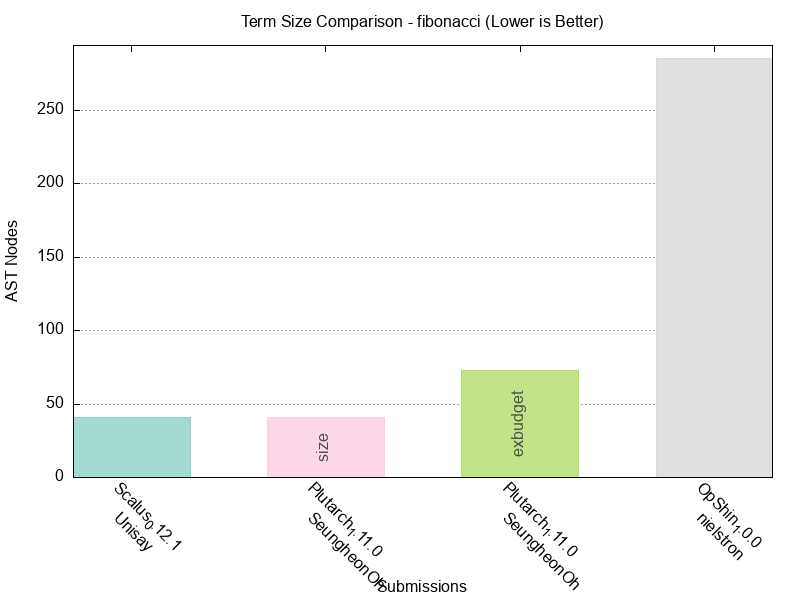
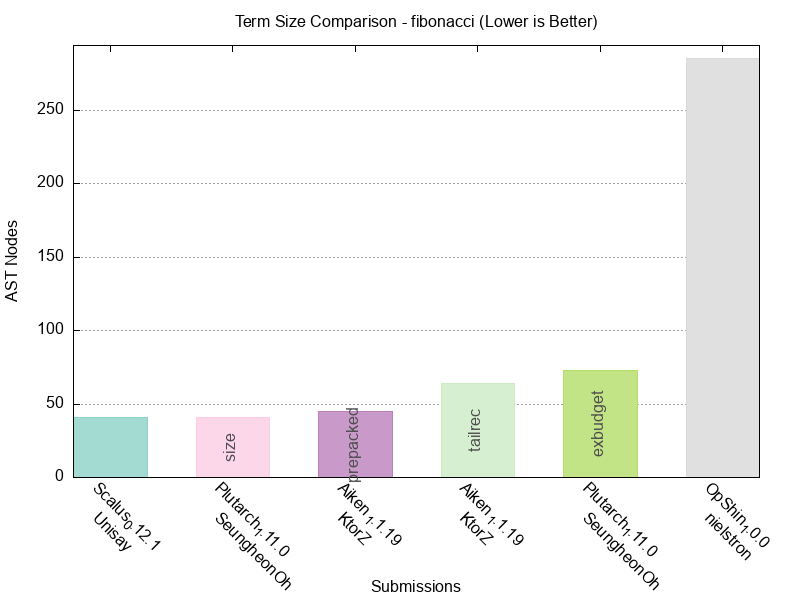
Regenerate HTML reports with new Aiken fibonacci submissions
Updated HTML performance reports to include two new Aiken v1.1.19 submissions:
- Aiken_1.1.19_KtorZ_prepacked: Highly optimized prepacked variant (22M CPU units)
- Aiken_1.1.19_KtorZ_tailrec: Tail-recursive implementation (67M CPU units)

Changes:
- Regenerated all benchmark HTML reports and charts
- Updated fibonacci benchmark charts with new submission data
- Formatted Aiken submission files (UPLC, JSON, README)

Test results: All 183 Haskell tests passed

diff --git a/report/index.html b/report/index.html
@@ -232,7 +232,7 @@
     </div>
 
     <div class="timestamp">
-        Generated on: 2025-10-17 18:30:53 CEST
+        Generated on: 2025-10-20 12:55:59 CEST
     </div>
     
     <!-- Benchmark Summary Table -->
@@ -479,7 +479,7 @@
                     </div>
                     <div class="count">
                         
-                            (4 submissions)
+                            (6 submissions)
                         
                     </div>
                 </div>
@@ -500,6 +500,50 @@
                             </tr>
                         </thead>
                         <tbody>
+                            
+                            <tr data-cpu="22521989" data-memory="49432" data-script="124" data-term="45">
+                                <td>Aiken</td>
+                                <td>v1.1.19</td>
+                                <td>prepacked</td>
+                                <td>Matthias Benkort</td>
+                                <td>2025-10-18</td>
+                                <td class="numeric">
+                                    <span class="tooltip">
+                                        <span class="cpu-value">22.52M</span>
+                                        <span class="tooltiptext">22521989</span>
+                                    </span>
+                                </td>
+                                <td class="numeric">
+                                    <span class="tooltip">
+                                        <span class="memory-value">49.43K</span>
+                                        <span class="tooltiptext">49432</span>
+                                    </span>
+                                </td>
+                                <td class="numeric script-value">124</td>
+                                <td class="numeric term-value">45</td>
+                            </tr>
+                            
+                            <tr data-cpu="67838022" data-memory="256986" data-script="77" data-term="64">
+                                <td>Aiken</td>
+                                <td>v1.1.19</td>
+                                <td>tailrec</td>
+                                <td>Matthias Benkort</td>
+                                <td>2025-10-18</td>
+                                <td class="numeric">
+                                    <span class="tooltip">
+                                        <span class="cpu-value">67.84M</span>
+                                        <span class="tooltiptext">67838022</span>
+                                    </span>
+                                </td>
+                                <td class="numeric">
+                                    <span class="tooltip">
+                                        <span class="memory-value">256.99K</span>
+                                        <span class="tooltiptext">256986</span>
+                                    </span>
+                                </td>
+                                <td class="numeric script-value">77</td>
+                                <td class="numeric term-value">64</td>
+                            </tr>
                             
                             <tr data-cpu="240131414" data-memory="1306476" data-script="227" data-term="285">
                                 <td>OpShin</td>

diff --git a/report/benchmarks/fibonacci.html b/report/benchmarks/fibonacci.html
@@ -175,7 +175,7 @@
     </div>
 
     <div class="timestamp">
-        Generated on: 2025-10-17 18:30:46 CEST
+        Generated on: 2025-10-20 12:55:51 CEST
     </div>
     
     <div class="benchmark-section">
@@ -219,6 +219,32 @@
                 </tr>
             </thead>
             <tbody>
+                <tr>
+                    <td>2025-10-18T12:29:30Z</td>
+                    <td>Aiken</td>
+                    <td>v1.1.19</td>
+                    <td>prepacked</td>
+                    <td>Matthias Benkort</td>
+                    <td class="numeric">22521989</td>
+                    <td class="numeric">49432</td>
+                    <td class="numeric">124</td>
+                    <td class="numeric">45</td>
+                    <td><a href="https://github.com/IntersectMBO/UPLC-CAPE/blob/main/submissions/fibonacci/Aiken_1.1.19_KtorZ_prepacked/source/README.md" target="_blank" rel="noopener">📁</a></td>
+                    <td><a href="https://github.com/IntersectMBO/UPLC-CAPE/blob/main/submissions/fibonacci/Aiken_1.1.19_KtorZ_prepacked/fibonacci.uplc" target="_blank" rel="noopener">🔗</a></td>
+                </tr>
+                <tr>
+                    <td>2025-10-18T12:09:45Z</td>
+                    <td>Aiken</td>
+                    <td>v1.1.19</td>
+                    <td>tailrec</td>
+                    <td>Matthias Benkort</td>
+                    <td class="numeric">67838022</td>
+                    <td class="numeric">256986</td>
+                    <td class="numeric">77</td>
+                    <td class="numeric">64</td>
+                    <td><a href="https://github.com/IntersectMBO/UPLC-CAPE/blob/main/submissions/fibonacci/Aiken_1.1.19_KtorZ_tailrec/source/README.md" target="_blank" rel="noopener">📁</a></td>
+                    <td><a href="https://github.com/IntersectMBO/UPLC-CAPE/blob/main/submissions/fibonacci/Aiken_1.1.19_KtorZ_tailrec/fibonacci.uplc" target="_blank" rel="noopener">🔗</a></td>
+                </tr>
                 <tr>
                     <td>2025-10-16T07:55:04Z</td>
                     <td>OpShin</td>

diff --git a/report/benchmarks/factorial.html b/report/benchmarks/factorial.html
@@ -175,7 +175,7 @@
     </div>
 
     <div class="timestamp">
-        Generated on: 2025-10-17 18:30:40 CEST
+        Generated on: 2025-10-20 12:55:40 CEST
     </div>
     
     <div class="benchmark-section">

diff --git a/report/benchmarks/factorial_naive_recursion.html b/report/benchmarks/factorial_naive_recursion.html
@@ -175,7 +175,7 @@
     </div>
 
     <div class="timestamp">
-        Generated on: 2025-10-17 18:30:43 CEST
+        Generated on: 2025-10-20 12:55:45 CEST
     </div>
     
     <div class="benchmark-section">

diff --git a/report/benchmarks/fibonacci_naive_recursion.html b/report/benchmarks/fibonacci_naive_recursion.html
@@ -175,7 +175,7 @@
     </div>
 
     <div class="timestamp">
-        Generated on: 2025-10-17 18:30:49 CEST
+        Generated on: 2025-10-20 12:55:54 CEST
     </div>
     
     <div class="benchmark-section">

diff --git a/report/benchmarks/two-party-escrow.html b/report/benchmarks/two-party-escrow.html
@@ -175,7 +175,7 @@
     </div>
 
     <div class="timestamp">
-        Generated on: 2025-10-17 18:30:51 CEST
+        Generated on: 2025-10-20 12:55:57 CEST
     </div>
     
     <div class="benchmark-section">

diff --git a/submissions/fibonacci/Aiken_1.1.19_KtorZ_prepacked/README.md b/submissions/fibonacci/Aiken_1.1.19_KtorZ_prepacked/README.md
@@ -1,7 +1,6 @@
 # Benchmark Implementation Notes
 
-**Scenario**: `fibonacci`
-**Submission ID**: `Aiken_1.1.19_KtorZ_prepacked`
+**Scenario**: `fibonacci` **Submission ID**: `Aiken_1.1.19_KtorZ_prepacked`
 
 ## Implementation Details
 
